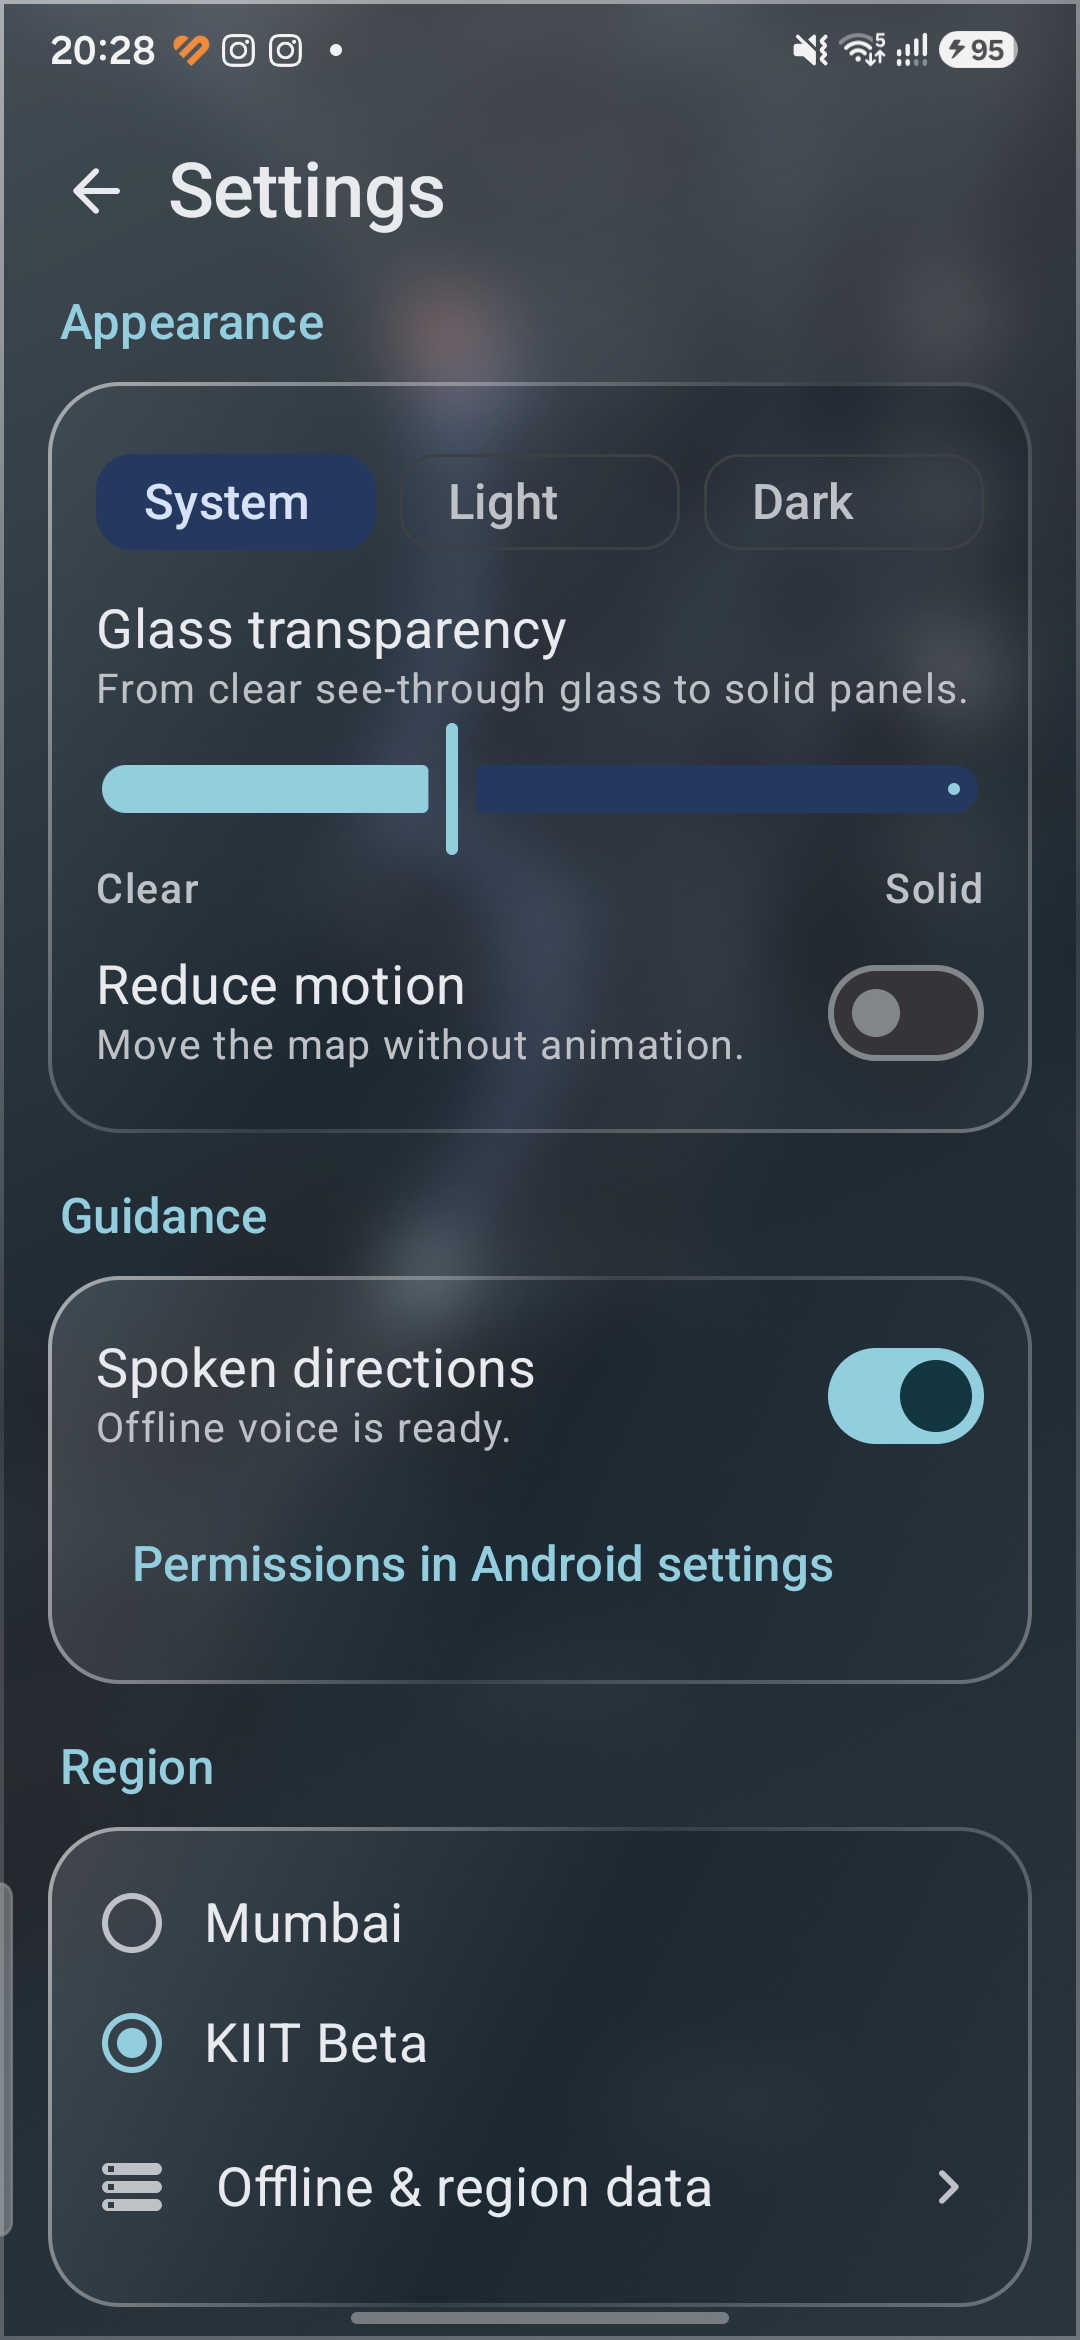
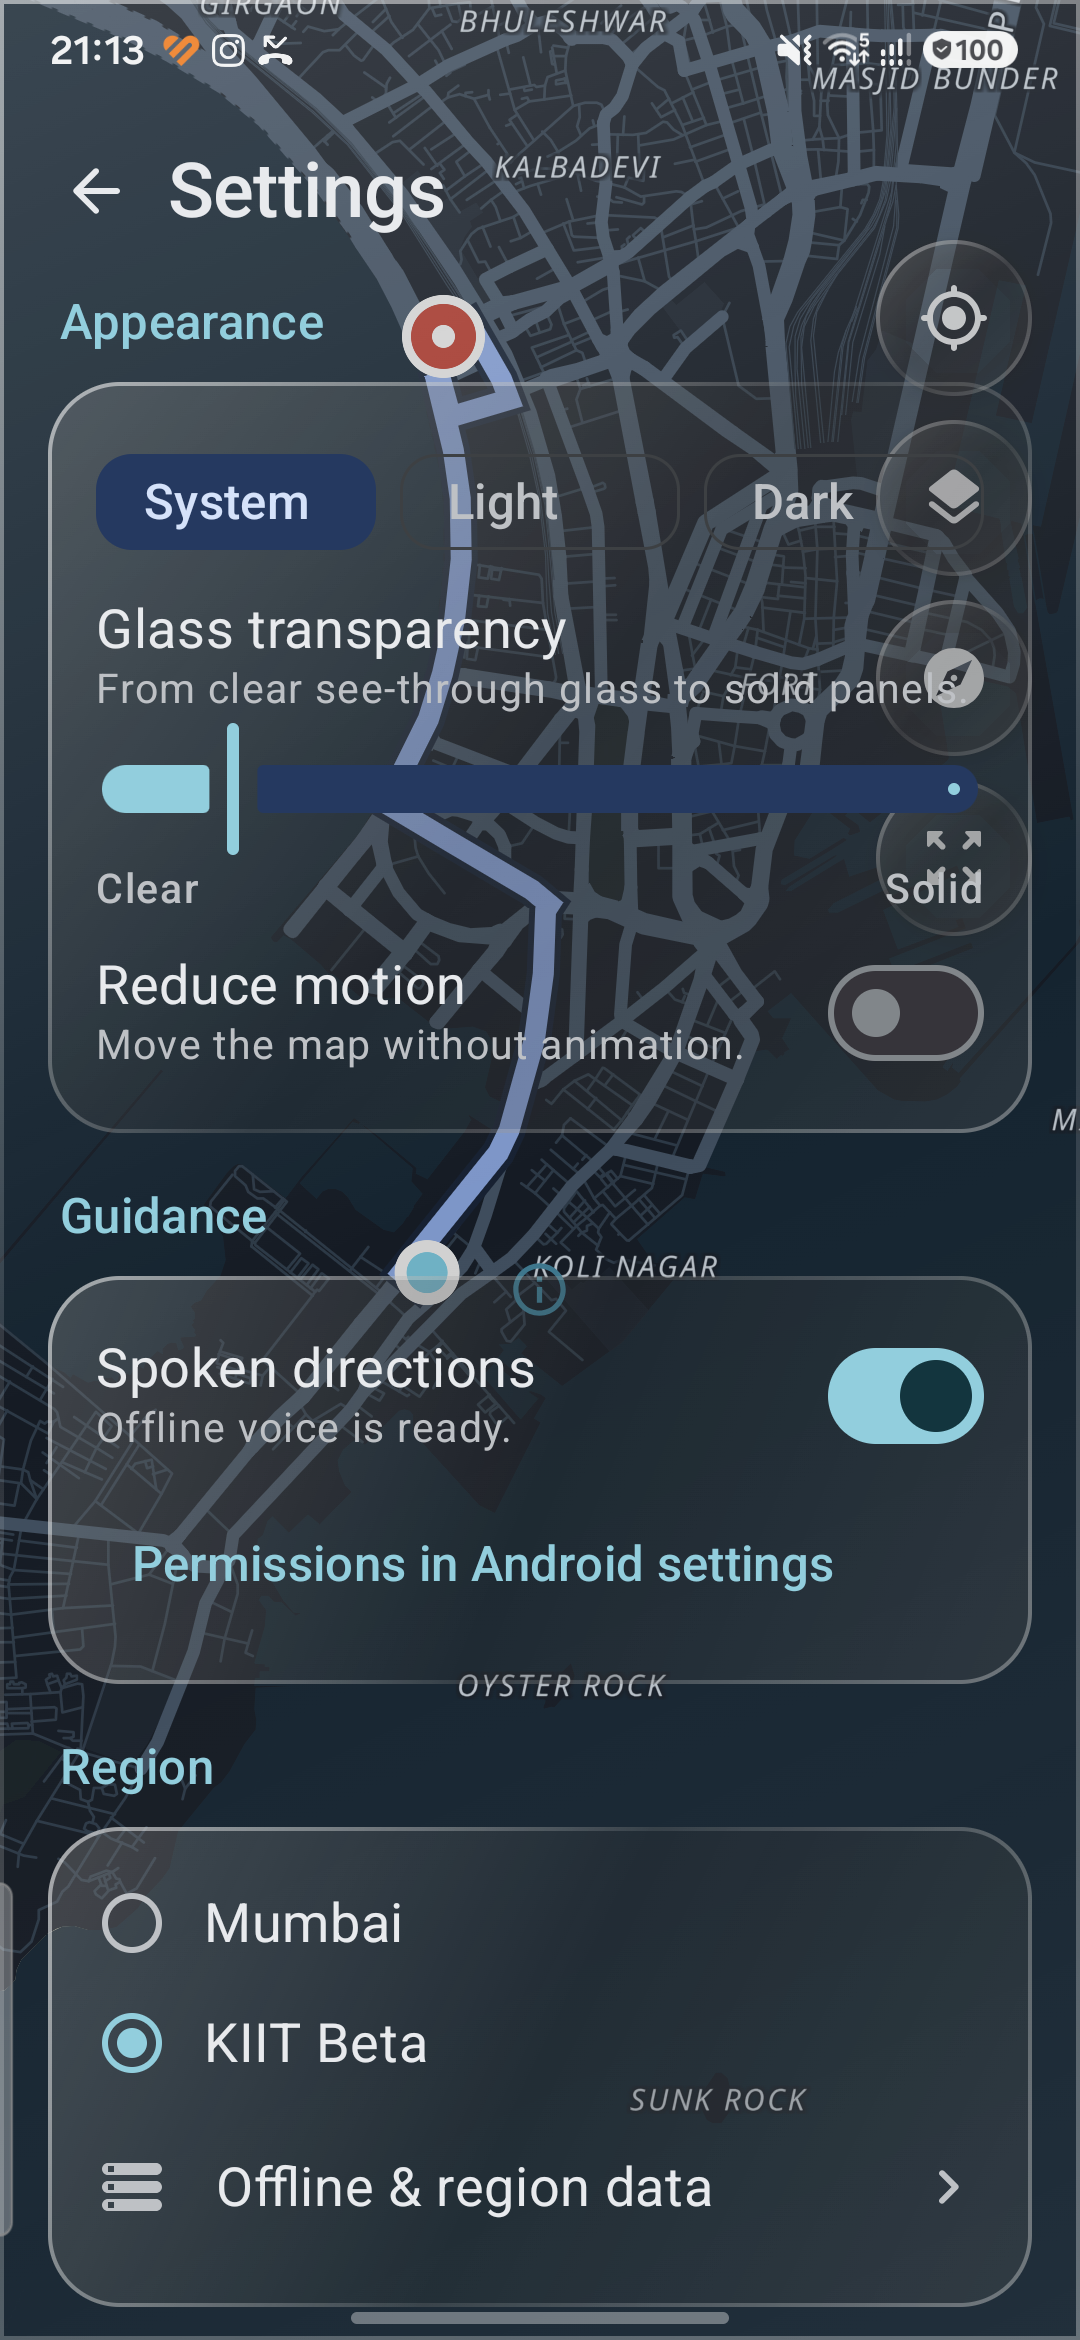
style: Clear unblurred glass on every panel, frosting only at high opacity

diff --git a/app/src/main/java/com/rohanc/navgate/ui/journey/Glass.kt b/app/src/main/java/com/rohanc/navgate/ui/journey/Glass.kt
@@ -31,8 +31,8 @@ val LocalGlassOpacity = compositionLocalOf { 0.15f }
 enum class GlassWeight { Thin, Regular, Thick }
 
 /**
- * Liquid glass: the map behind the panel is strongly blurred, lifted toward white, and edged with a bright rim and a soft
- * top-left sheen, so every surface in the app looks like the round map buttons. How see-through it is comes from the
+ * Liquid glass: a clear, lightly tinted pane edged with a bright rim and a soft top-left sheen, with the map showing straight through,
+ * exactly like the round map buttons. Higher slider settings add frosting. How see-through it is comes from the
  * Settings slider. Without a blur source (older phones, tests) it falls back to a flat tint of the same strength.
  */
 @Composable
@@ -48,10 +48,13 @@ fun GlassPanel(modifier: Modifier = Modifier, shape: Shape = RoundedCornerShape(
     val raw = tint ?: scheme.surface
     val base = androidx.compose.ui.graphics.lerp(raw, Color.White, if (dark) 0.10f else 0.0f)
     val onBase = contentColor ?: scheme.onSurface
-    val blur = (30 - 12 * opacity).dp
-    val effect = if (haze != null && !solid) Modifier.hazeEffect(haze, HazeStyle(
-        backgroundColor = base, tints = listOf(HazeTint(base.copy(alpha = tintAlpha))), blurRadius = blur, noiseFactor = 0.03f)) else Modifier
-    val fallbackAlpha = if (solid) 1f else if (haze == null) (tintAlpha + 0.30f).coerceAtMost(0.98f) else 0f
+    // Clear glass like the map buttons: no frosting at low and middle settings, so the map stays crisp behind every panel.
+    // Only the upper end of the slider blurs the map, on the way to solid.
+    val blur = ((opacity - 0.5f) * 44f).dp
+    val frosted = haze != null && !solid && blur > 2.dp
+    val effect = if (frosted) Modifier.hazeEffect(haze!!, HazeStyle(
+        backgroundColor = base, tints = listOf(HazeTint(base.copy(alpha = tintAlpha))), blurRadius = blur, noiseFactor = 0.02f)) else Modifier
+    val fallbackAlpha = if (solid) 1f else if (frosted) 0f else tintAlpha
     val rim = Brush.linearGradient(listOf(Color.White.copy(alpha = if (dark) 0.55f else 0.95f), Color.White.copy(alpha = if (dark) 0.10f else 0.25f), Color.White.copy(alpha = if (dark) 0.32f else 0.7f)))
     val sheen = Brush.linearGradient(listOf(Color.White.copy(alpha = if (dark) 0.16f else 0.35f), Color.Transparent, Color.White.copy(alpha = if (dark) 0.05f else 0.12f)))
     val shadowDp = if (shadow) (8f * (0.4f + opacity)).dp else 0.dp
